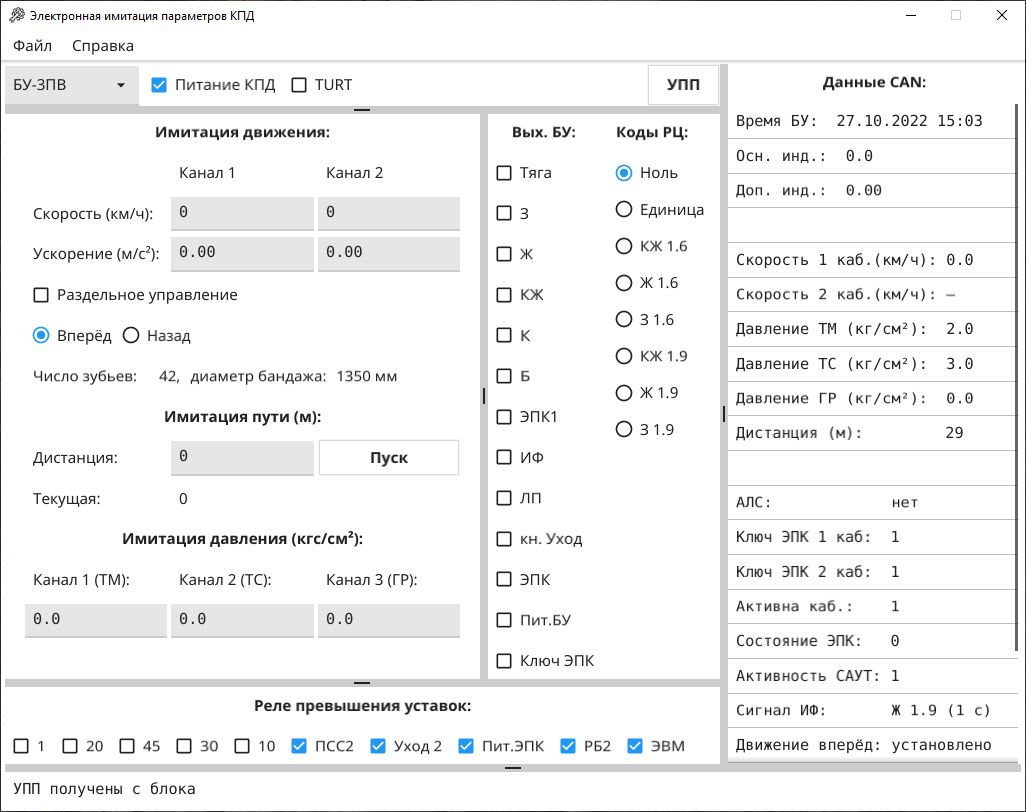
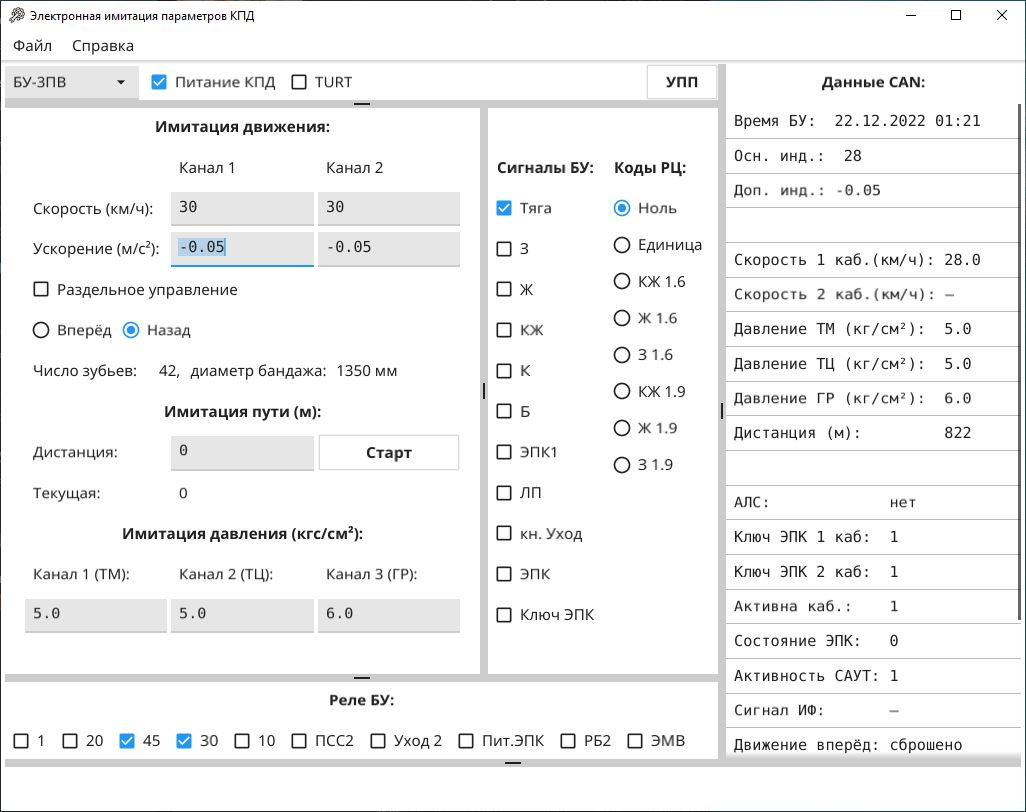
debug

diff --git a/help/index.html b/help/index.html
@@ -128,11 +128,11 @@ thead td
 
 		<h3>Двоичные сигналы</h3>
 		<p>
-			Выберите двоичный выход БУ, установив соответствующий чекбокс в поле «Вых. БУ». 
+			Выберите двоичный выход БУ, установив соответствующий чекбокс в поле «Сигналы БУ». 
 			Некоторые установленные на БУ сигналы («Тяга», «АЛС», «ЭПК») можно контролировать в поле «Данные CAN».  <BR>
 			Выберите код рельсовой цепи, установив соответствующую кнопку-переключатель в поле «Коды РЦ». 
 			Установленный сигнал можно контролировать в поле «Данные CAN» в строке «Сигнал ИФ». <BR>
-			В поле «Реле превышения уставок» отображаются выходные сигналы БУ. Их установка ни к чему не приводит.
+			В поле «Реле БУ» отображаются выходные сигналы БУ. Их установка ни к чему не приводит.
 		</p>
 
 	</td>

diff --git a/testsrs3.go b/testsrs3.go
@@ -1327,7 +1327,7 @@ func outputSignals() fyne.CanvasObject {
 
 	gForm.BoxOut50V = container.NewVBox(checkLP, checkButtonUhod, checkEPK, checkKeyEPK)
 
-	boxOut := container.NewVBox(getTitle("    Вых. БУ:     "), checkTracktion, gForm.BoxOut10V, gForm.BoxOut50V)
+	boxOut := container.NewVBox(getTitle("Сигналы БУ:"), checkTracktion, gForm.BoxOut10V, gForm.BoxOut50V)
 	box := container.NewVBox(layout.NewSpacer(), container.NewHBox(boxOut, boxCode), layout.NewSpacer())
 
 	return box
@@ -1455,7 +1455,7 @@ func inputSignals() fyne.CanvasObject {
 		}
 	}()
 
-	return container.NewVBox(getTitle("Реле превышения уставок:"), box)
+	return container.NewVBox(getTitle("Реле БУ:"), box)
 }
 
 //---------------------------------------------------------------------------//
